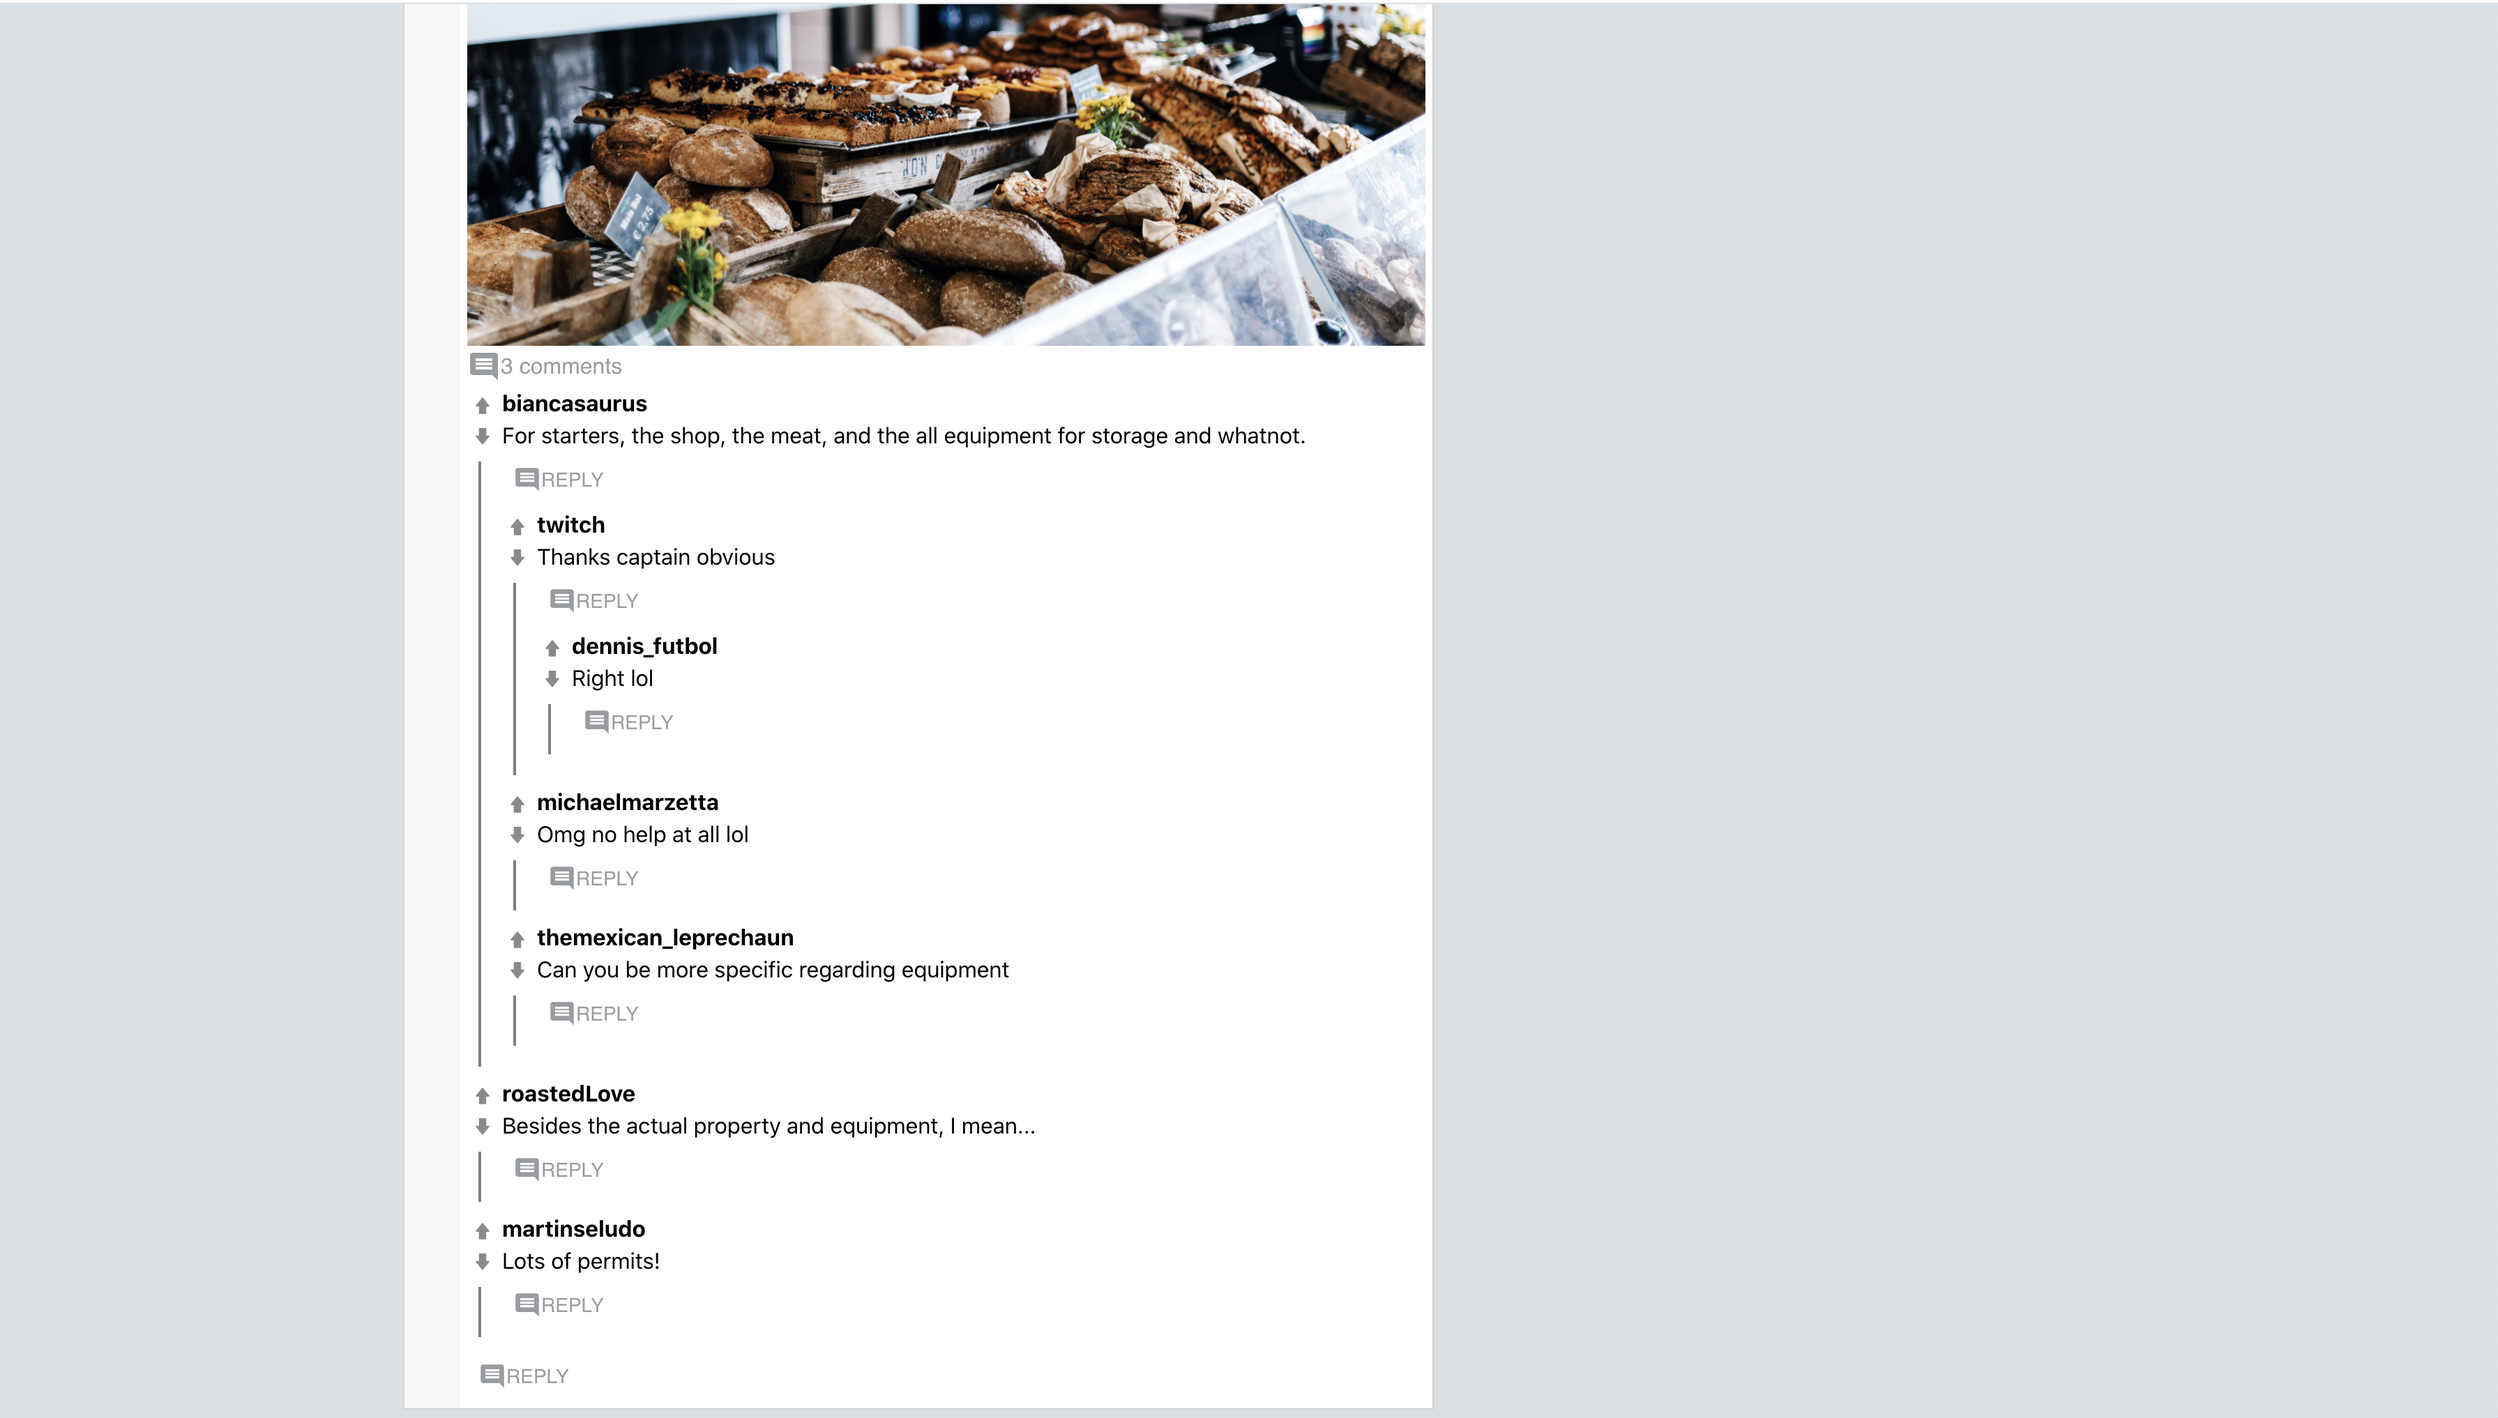
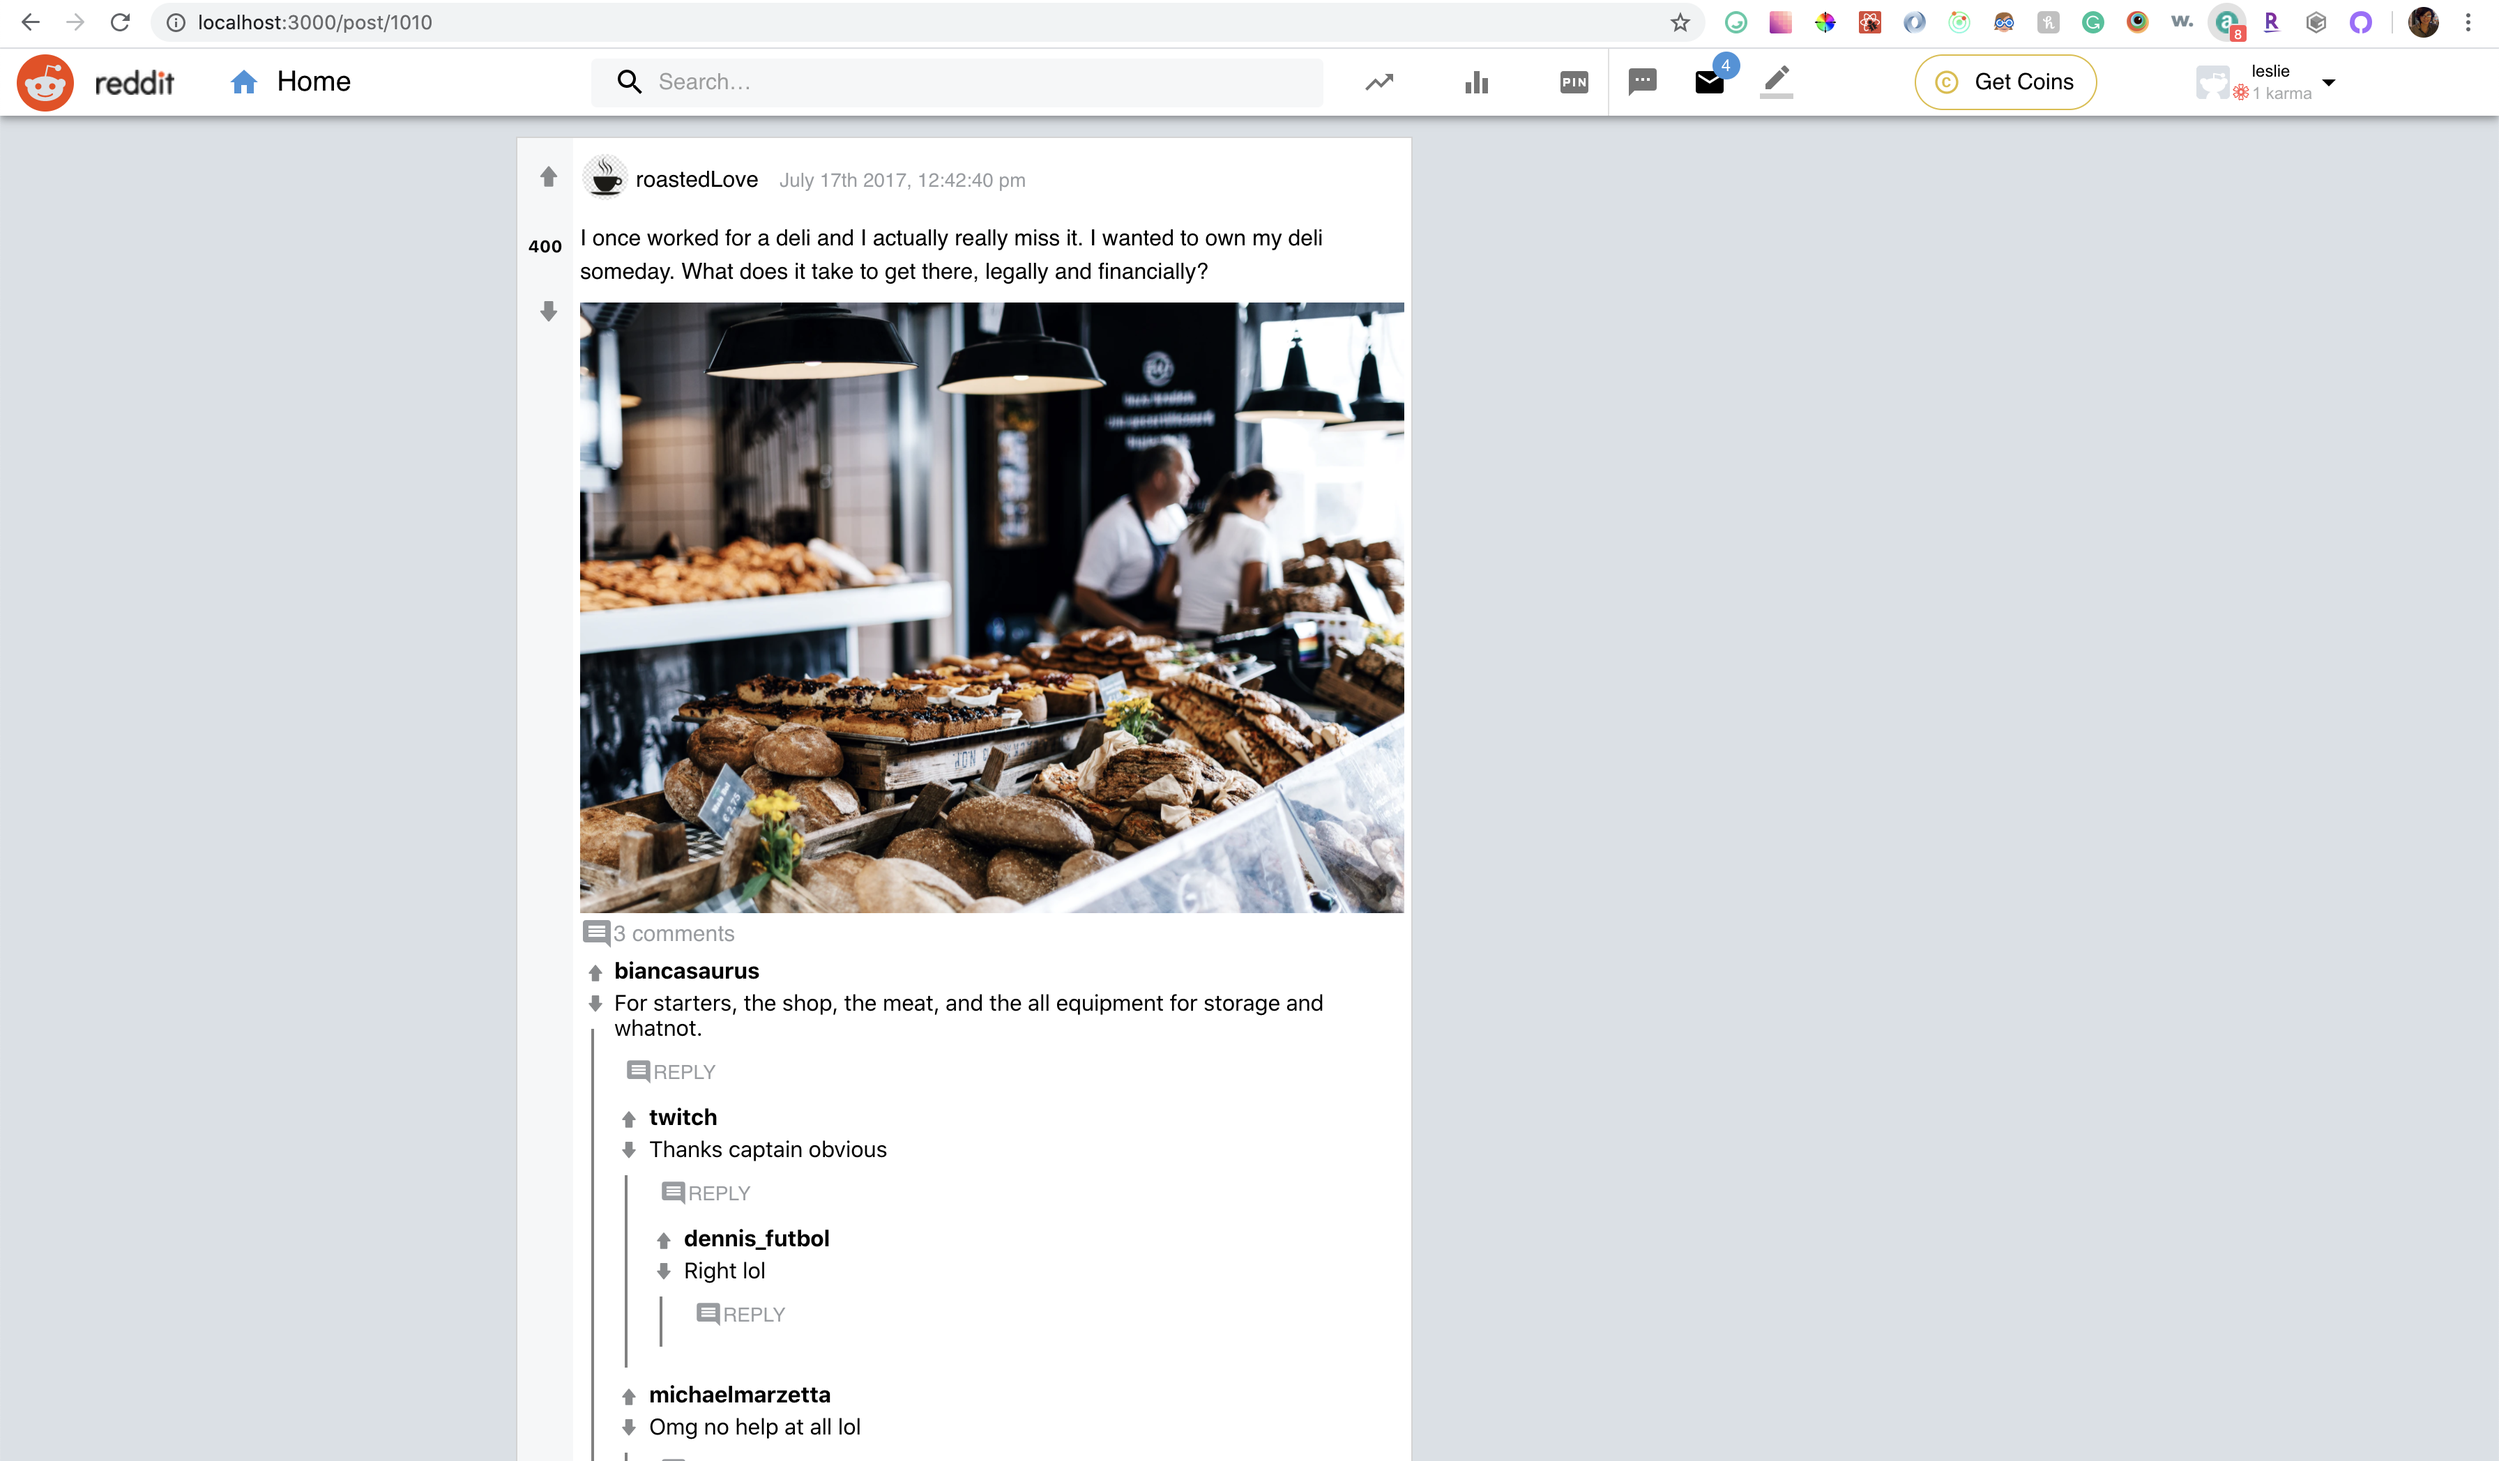
updates

Changed region(s): [[0.0, 0.0, 1.0, 1.0]]

diff --git a/src/components/posts/Post.js b/src/components/posts/Post.js
@@ -18,6 +18,11 @@ import PostHeader from "../../components/posts/PostHeader";
 
 
 const useStyles = makeStyles((theme) => ({
+  container: {
+    marginTop: 15,
+    maxWidth: '1120px',
+   
+  },
     avatar: {
         width: 50,
         borderRadius: '50%'
@@ -71,7 +76,7 @@ const Post = ({ post, index, selectPost, selectedPost, match, reloadData, posts 
   }, [selectedPost])
 
   return (
-    <Container>
+    <Container className={classes.container}>
     {post ?
     <div className={classes.postBorder}>
       {!match ? <Upvotes voteCount={post.votes} post={post} postId={post.id} index={index} /> : <Upvotes voteCount={post.votes} post={post} postId={post.id} index={location && location.state && location.state.index} /> }
